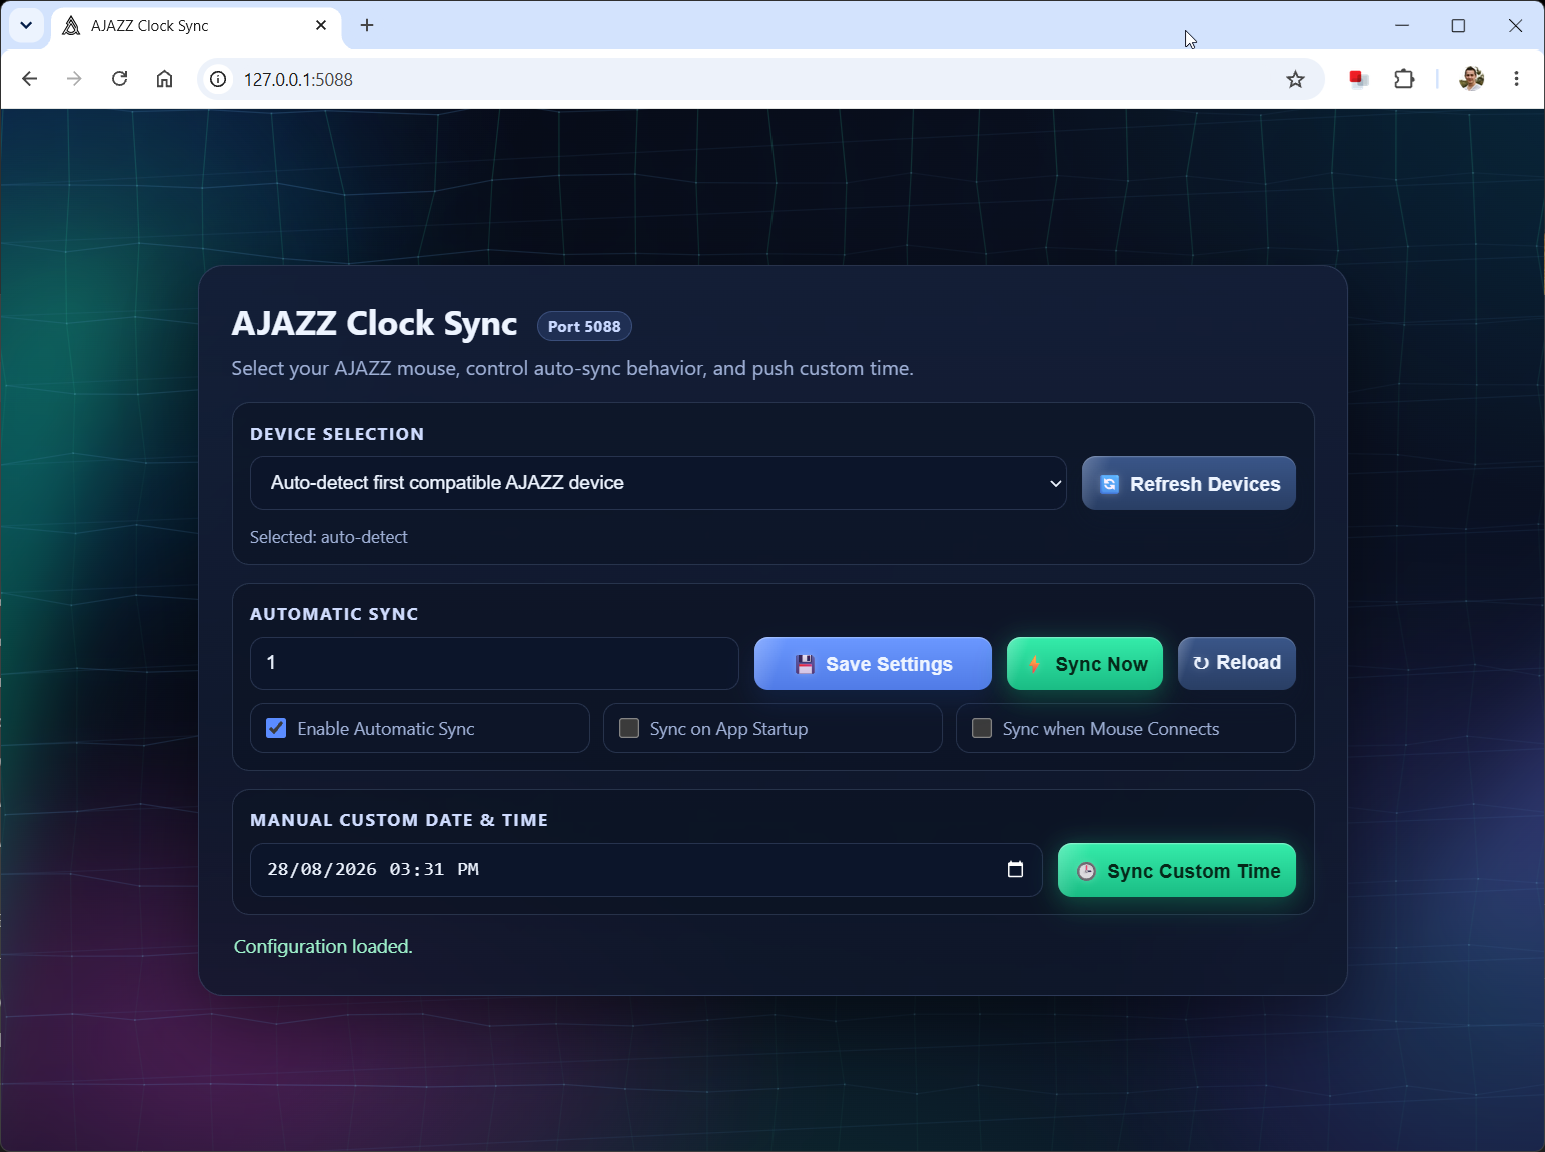
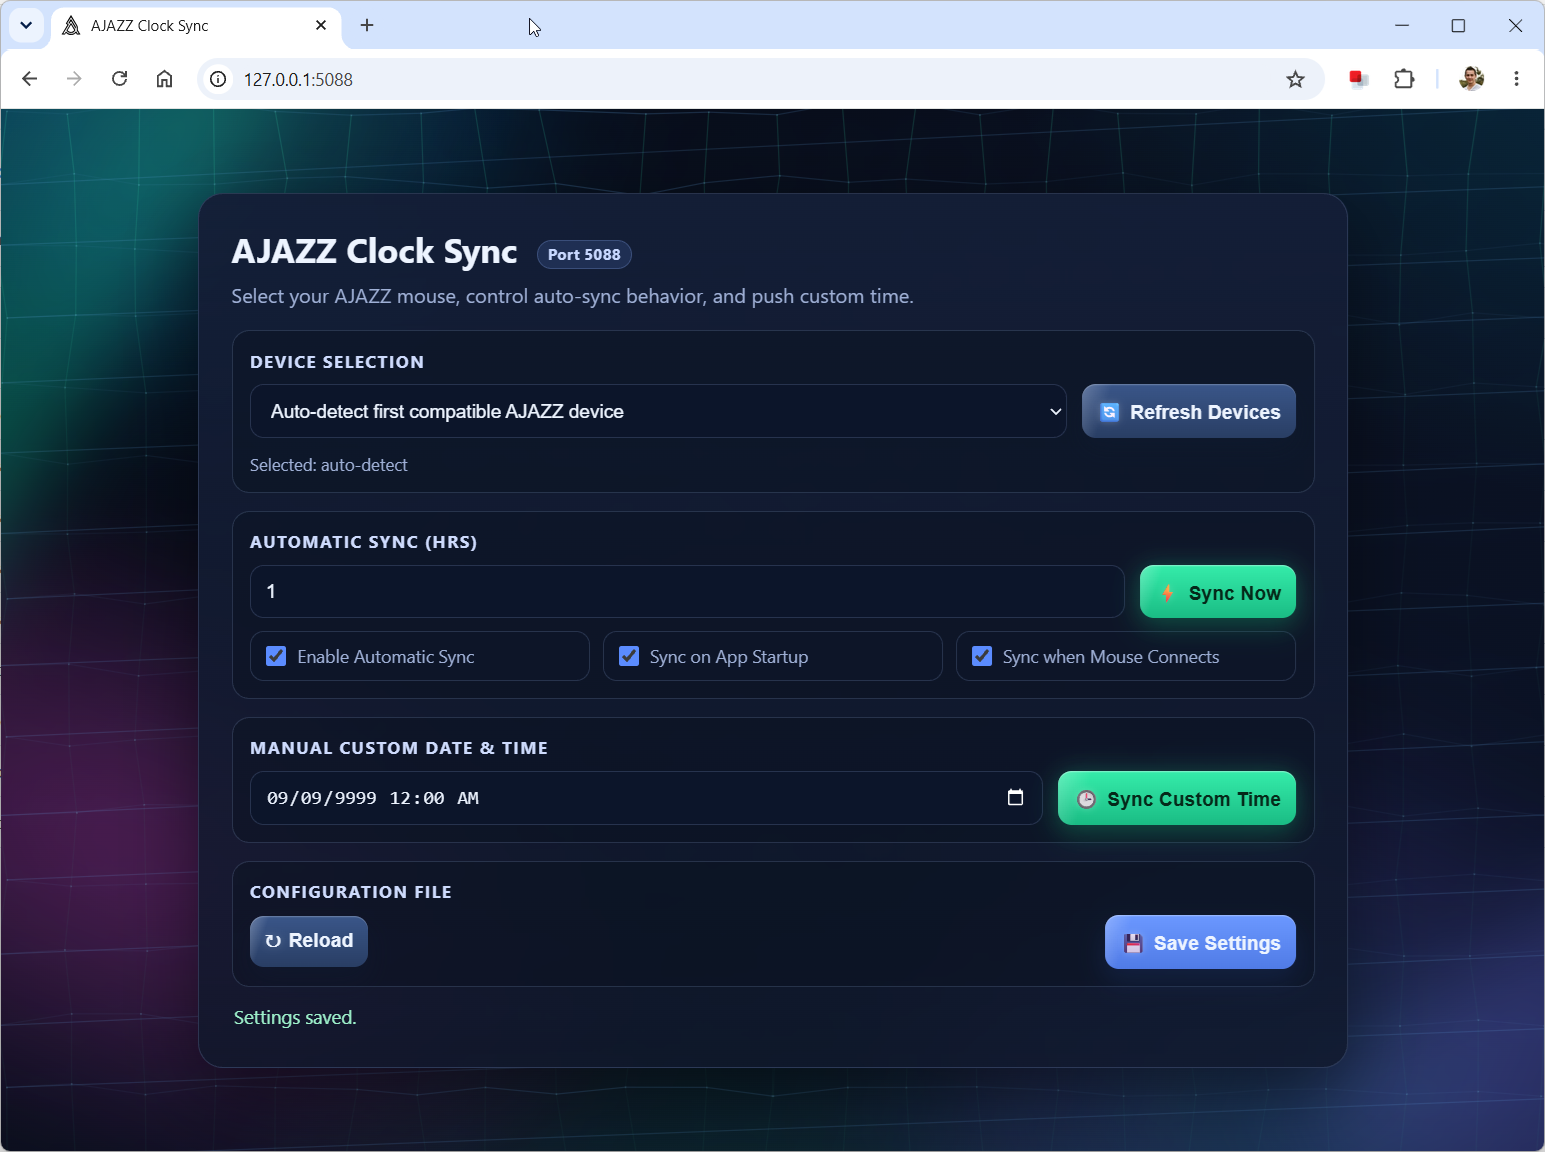
V2 Release - UI Enhancements

diff --git a/AjazzMouseTimeSynch/HtmlPage.cs b/AjazzMouseTimeSynch/HtmlPage.cs
@@ -157,8 +157,9 @@ public static class HtmlPage
     }
 
     .row { display: grid; grid-template-columns: 1fr auto; gap: 12px; margin-bottom: 12px; }
-    .controls { display: grid; grid-template-columns: 1fr 190px auto auto; gap: 12px; margin-bottom: 10px; }
+    .controls { display: grid; grid-template-columns: 1fr auto; gap: 12px; margin-bottom: 10px; }
     .custom-controls { display: grid; grid-template-columns: 1fr auto; gap: 12px; }
+    .config-controls { display: grid; grid-template-columns: auto 1fr auto; gap: 12px; align-items: center; }
     .toggle-grid { display: grid; grid-template-columns: repeat(3, minmax(180px, 1fr)); gap: 10px; }
 
     input, select, button {
@@ -283,6 +284,23 @@ public static class HtmlPage
       transition: color .2s ease;
     }
 
+    .app-state {
+      border: 1px solid rgba(255, 120, 120, .45);
+      background: rgba(80, 20, 20, .45);
+      color: #ffbaba;
+      border-radius: 10px;
+      padding: 10px 12px;
+      margin: 4px 0 12px;
+      font-size: .9rem;
+      display: none;
+    }
+
+    .app-offline .section {
+      opacity: .45;
+      filter: grayscale(.3);
+      pointer-events: none;
+    }
+
     .small { color: var(--muted); font-size: .84rem; word-break: break-all; }
 
     .chip {
@@ -300,6 +318,7 @@ public static class HtmlPage
     @media (max-width: 920px) {
       .controls { grid-template-columns: 1fr; }
       .custom-controls { grid-template-columns: 1fr; }
+      .config-controls { grid-template-columns: 1fr; }
       .toggle-grid { grid-template-columns: 1fr; }
       .row { grid-template-columns: 1fr; }
     }
@@ -312,7 +331,9 @@ public static class HtmlPage
   <div class="card">
     <h1>AJAZZ Clock Sync <span class="chip" id="portChip">Port</span></h1>
     <p>Select your AJAZZ mouse, control auto-sync behavior, and push custom time.</p>
+    <div class="app-state" id="appState">Application is not running. Waiting for service...</div>
 
+    <div id="appContent">
     <div class="section">
       <div class="section-title">Device Selection</div>
       <div class="row">
@@ -323,12 +344,10 @@ public static class HtmlPage
     </div>
 
     <div class="section">
-      <div class="section-title">Automatic Sync</div>
+      <div class="section-title">Automatic Sync (Hrs)</div>
       <div class="controls">
         <input id="intervalHours" type="number" min="1" step="1" placeholder="Sync interval (hours)" />
-        <button id="saveBtn"><span class="btn-icon">💾</span>Save Settings</button>
         <button class="success" id="syncBtn"><span class="btn-icon">⚡</span>Sync Now</button>
-        <button class="secondary" id="reloadBtn"><span class="btn-icon">↻</span>Reload</button>
       </div>
       <div class="toggle-grid">
         <label class="toggle"><input id="syncIntervalEnabled" type="checkbox" /> Enable Automatic Sync</label>
@@ -345,6 +364,16 @@ public static class HtmlPage
       </div>
     </div>
 
+    <div class="section">
+      <div class="section-title">Configuration File</div>
+      <div class="config-controls">
+        <button class="secondary" id="reloadBtn"><span class="btn-icon">↻</span>Reload</button>
+        <div></div>
+        <button id="saveBtn"><span class="btn-icon">💾</span>Save Settings</button>
+      </div>
+    </div>
+
+    </div>
     <div class="status" id="status"></div>
   </div>
 
@@ -356,16 +385,51 @@ public static class HtmlPage
     const syncIntervalEnabled = document.getElementById('syncIntervalEnabled');
     const syncOnStartup = document.getElementById('syncOnStartup');
     const syncOnDeviceConnect = document.getElementById('syncOnDeviceConnect');
+    const appState = document.getElementById('appState');
+    const appContent = document.getElementById('appContent');
     const status = document.getElementById('status');
     const selectedPath = document.getElementById('selectedPath');
     const portChip = document.getElementById('portChip');
 
     const wireframe = createWireframe(wireframeCanvas);
 
+    let appRunning = true;
+
     async function call(url, options) {
       const res = await fetch(url, options);
       if (!res.ok) throw new Error(`HTTP ${res.status}`);
       return res.headers.get('content-type')?.includes('application/json') ? await res.json() : null;
+    }
+
+    function setAppRunning(isRunning) {
+      if (appRunning === isRunning) {
+        return;
+      }
+
+      appRunning = isRunning;
+      appContent.classList.toggle('app-offline', !isRunning);
+
+      if (isRunning) {
+        appState.style.display = 'none';
+      } else {
+        appState.style.display = 'block';
+        appState.textContent = 'Application is not running. Waiting for service...';
+        setStatus('Service disconnected.', false);
+      }
+    }
+
+    async function monitorServiceStatus() {
+      try {
+        await call('/api/status', { cache: 'no-store' });
+
+        if (!appRunning) {
+          setAppRunning(true);
+          await loadAll();
+          setStatus('Service reconnected.');
+        }
+      } catch {
+        setAppRunning(false);
+      }
     }
 
     function createWireframe(canvas) {
@@ -539,11 +603,12 @@ public static class HtmlPage
           : 'Selected: auto-detect';
 
         portChip.textContent = `Port ${settings.webPort}`;
-        if (!customDateTime.value) customDateTime.value = toLocalDateTimeInputValue(new Date());
+        customDateTime.value = settings.lastCustomDateTime || '9999-09-09T00:00';
 
         setStatus('Configuration loaded.');
       } catch (err) {
         setStatus(`Load failed: ${err.message}`, false);
+        setAppRunning(false);
       }
     }
 
@@ -564,7 +629,8 @@ public static class HtmlPage
           syncIntervalHours: Number(intervalHours.value || 1),
           syncIntervalEnabled: syncIntervalEnabled.checked,
           syncOnStartup: syncOnStartup.checked,
-          syncOnDeviceConnect: syncOnDeviceConnect.checked
+          syncOnDeviceConnect: syncOnDeviceConnect.checked,
+          lastCustomDateTime: customDateTime.value || '9999-09-09T00:00'
         };
 
         const updated = await call('/api/settings', {
@@ -580,6 +646,7 @@ public static class HtmlPage
         selectedPath.textContent = updated.selectedDevicePath
           ? `Selected: ${updated.selectedDevicePath}`
           : 'Selected: auto-detect';
+        customDateTime.value = updated.lastCustomDateTime || customDateTime.value || '9999-09-09T00:00';
 
         setStatus('Settings saved.');
       } catch (err) {
@@ -610,6 +677,7 @@ public static class HtmlPage
           body: JSON.stringify(payload)
         });
 
+        customDateTime.value = result.lastCustomDateTime || customDateTime.value;
         setStatus(result.success
           ? `Custom sync succeeded for ${result.timestamp}.`
           : 'Custom sync failed (device unavailable or rejected).', result.success);
@@ -622,6 +690,8 @@ public static class HtmlPage
 
     window.addEventListener('resize', () => wireframe.resize(), { passive: true });
 
+    setInterval(monitorServiceStatus, 2000);
+    monitorServiceStatus();
     loadAll();
   </script>
 </body>

diff --git a/AjazzMouseTimeSynch/AjazzSettings.cs b/AjazzMouseTimeSynch/AjazzSettings.cs
@@ -8,6 +8,7 @@ public sealed class AjazzSettings
     public bool SyncIntervalEnabled { get; set; } = true;
     public bool SyncOnStartup { get; set; } = true;
     public bool SyncOnDeviceConnect { get; set; } = true;
+    public string LastCustomDateTime { get; set; } = "9999-09-09T00:00";
 }
 
 public sealed class AjazzSettingsUpdateRequest
@@ -17,6 +18,7 @@ public sealed class AjazzSettingsUpdateRequest
     public bool? SyncIntervalEnabled { get; set; }
     public bool? SyncOnStartup { get; set; }
     public bool? SyncOnDeviceConnect { get; set; }
+    public string? LastCustomDateTime { get; set; }
 }
 
 public sealed class AjazzManualSyncRequest
@@ -74,6 +76,11 @@ public sealed class AjazzSettingsStore(IConfiguration configuration, IHostEnviro
                 _settings.SyncOnDeviceConnect = update.SyncOnDeviceConnect.Value;
             }
 
+            if (update.LastCustomDateTime is not null)
+            {
+                _settings.LastCustomDateTime = NormalizeCustomDateTime(update.LastCustomDateTime);
+            }
+
             Persist(_settings);
             return Clone(_settings);
         }
@@ -87,6 +94,7 @@ public sealed class AjazzSettingsStore(IConfiguration configuration, IHostEnviro
         settings.WebPort = settings.WebPort <= 0 ? 5088 : settings.WebPort;
         settings.SyncIntervalHours = NormalizeInterval(settings.SyncIntervalHours);
         settings.SelectedDevicePath ??= string.Empty;
+        settings.LastCustomDateTime = NormalizeCustomDateTime(settings.LastCustomDateTime);
 
         return settings;
     }
@@ -100,13 +108,24 @@ public sealed class AjazzSettingsStore(IConfiguration configuration, IHostEnviro
             SyncIntervalHours = settings.SyncIntervalHours,
             SyncIntervalEnabled = settings.SyncIntervalEnabled,
             SyncOnStartup = settings.SyncOnStartup,
-            SyncOnDeviceConnect = settings.SyncOnDeviceConnect
+            SyncOnDeviceConnect = settings.SyncOnDeviceConnect,
+            LastCustomDateTime = settings.LastCustomDateTime
         };
     }
 
     private static int NormalizeInterval(int intervalHours)
     {
         return intervalHours < 1 ? 1 : intervalHours;
+    }
+
+    private static string NormalizeCustomDateTime(string? customDateTime)
+    {
+        if (string.IsNullOrWhiteSpace(customDateTime))
+        {
+            return "9999-09-09T00:00";
+        }
+
+        return customDateTime.Trim();
     }
 
     private void Persist(AjazzSettings settings)
@@ -128,7 +147,8 @@ public sealed class AjazzSettingsStore(IConfiguration configuration, IHostEnviro
             SyncIntervalHours = settings.SyncIntervalHours,
             SyncIntervalEnabled = settings.SyncIntervalEnabled,
             SyncOnStartup = settings.SyncOnStartup,
-            SyncOnDeviceConnect = settings.SyncOnDeviceConnect
+            SyncOnDeviceConnect = settings.SyncOnDeviceConnect,
+            LastCustomDateTime = settings.LastCustomDateTime
         };
 
         string json = JsonSerializer.Serialize(normalized, new JsonSerializerOptions

diff --git a/AjazzMouseTimeSynch/AjazzController.cs b/AjazzMouseTimeSynch/AjazzController.cs
@@ -52,7 +52,27 @@ public sealed class AjazzController(IAjazzSettingsStore settingsStore, AjazzCloc
         DateTime requested = request.TargetDateTime.Value;
         DateTime localTarget = requested.Kind == DateTimeKind.Utc ? requested.ToLocalTime() : requested;
 
+        AjazzSettings persisted = settingsStore.UpdateSettings(new AjazzSettingsUpdateRequest
+        {
+            LastCustomDateTime = localTarget.ToString("yyyy-MM-ddTHH:mm")
+        });
+
         bool success = await syncService.TrySyncAtAsync("manual custom", localTarget, cancellationToken);
-        return Ok(new { success, timestamp = localTarget.ToString("yyyy-MM-dd HH:mm:ss") });
+        return Ok(new
+        {
+            success,
+            timestamp = localTarget.ToString("yyyy-MM-dd HH:mm:ss"),
+            lastCustomDateTime = persisted.LastCustomDateTime
+        });
+    }
+
+    [HttpGet("status")]
+    public IActionResult Status()
+    {
+        return Ok(new
+        {
+            running = true,
+            utc = DateTime.UtcNow
+        });
     }
 }

diff --git a/AjazzMouseTimeSynch/Program.cs b/AjazzMouseTimeSynch/Program.cs
@@ -31,7 +31,7 @@ else
 var startupSettings = new AjazzSettings();
 builder.Configuration.GetSection("Ajazz").Bind(startupSettings);
 int webPort = startupSettings.WebPort <= 0 ? 5088 : startupSettings.WebPort;
-builder.WebHost.UseUrls($"http://0.0.0.0:{webPort}");
+builder.WebHost.UseUrls($"http://127.0.0.1:{webPort}");
 
 builder.Services.AddControllers();
 builder.Services.AddSingleton<IAjazzSettingsStore, AjazzSettingsStore>();
